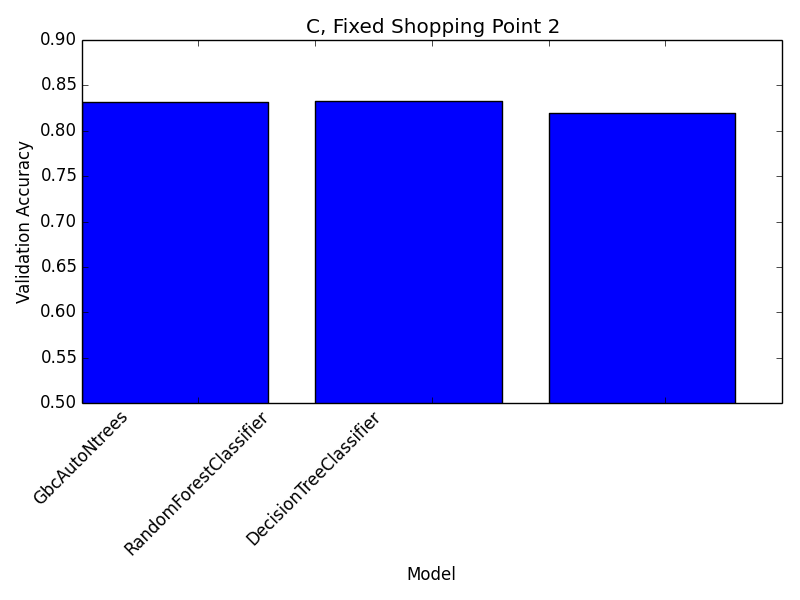
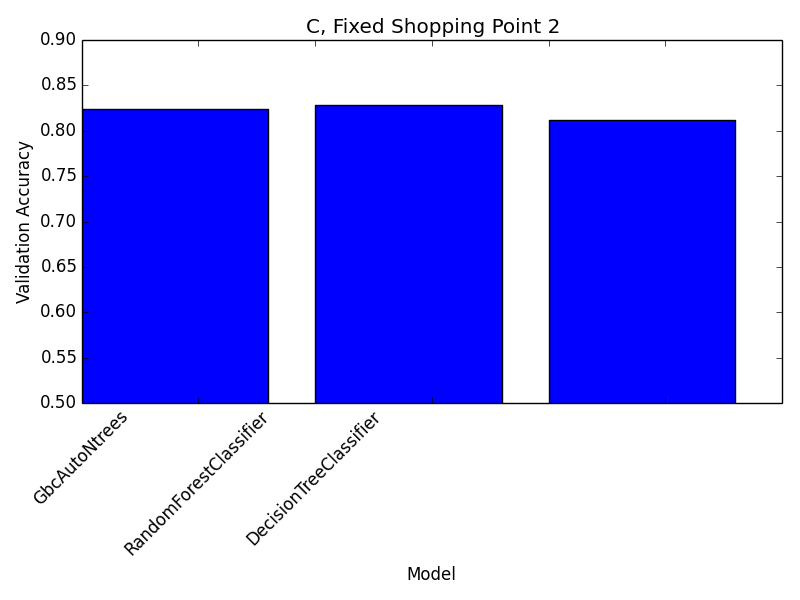
don't combine predictions from estimators

Changed region(s): [[0.0938, 0.15, 0.3438, 0.21], [0.6875, 0.18, 0.9375, 0.21], [0.375, 0.15, 0.625, 0.18]]

diff --git a/python/classify_plans_independently.py b/python/classify_plans_independently.py
@@ -126,7 +126,7 @@ def fit_fixed_shopping_pt(training_set, response, category, test_set):
 
     y_predict = pd.DataFrame(data=np.zeros((len(test_cust_ids), len(n_refinements)), dtype=np.int), index=test_cust_ids,
                              columns=n_refinements.keys())
-    y_predict['Combined'] = 0
+    # y_predict['Combined'] = 0
     y_predict.name = category
 
     # add last plan value to end of predictors
@@ -177,19 +177,6 @@ def fit_fixed_shopping_pt(training_set, response, category, test_set):
         for model_name in suite.best_scores:
             print model_name, suite.best_scores[model_name]
 
-        # plot the validation error for each model
-        fig, ax1 = plt.subplots()
-        plt.bar(np.arange(0, len(suite.best_scores.keys())), suite.best_scores.values())
-        plt.ylim(ymin=min(0.5, np.min(suite.best_scores.values())))
-        xtickNames = plt.setp(ax1, xticklabels=suite.best_scores.keys())
-        plt.setp(xtickNames, rotation=45)
-        plt.ylabel('Validation Accuracy')
-        plt.xlabel('Model')
-        plt.title(category + ', Fixed Shopping Point ' + str(spt))
-        plt.tight_layout()
-        plt.savefig(base_dir + 'plots/cverror_sklearn_suite_shopping_point' + str(spt) + '_category' + category +
-                    '.png')
-
         # predict the test data
         print 'Predicting the class for the test set...'
         test_cust_ids = X_test.index  # only update customers that have made it to this shopping point
@@ -201,7 +188,7 @@ def fit_fixed_shopping_pt(training_set, response, category, test_set):
         spt_predict = suite.predict_all(X_test)
         for c in n_refinements.keys():  # loop over the models
             y_predict.ix[test_cust_ids, c] = spt_predict[c]
-        y_predict.ix[test_cust_ids, 'Combined'] = suite.predict(X_test)
+        # y_predict.ix[test_cust_ids, 'Combined'] = suite.predict(X_test)
 
     return y_predict
 
@@ -217,7 +204,7 @@ if __name__ == "__main__":
 
     # for testing, reduce number of customers
     # customer_ids = training_set.index.get_level_values(0).unique()
-    # training_set = training_set.select(lambda x: x[0] < customer_ids[1000], axis=0)
+    # training_set = training_set.select(lambda x: x[0] < customer_ids[500], axis=0)
 
     customer_ids = training_set.index.get_level_values(0).unique()
 
